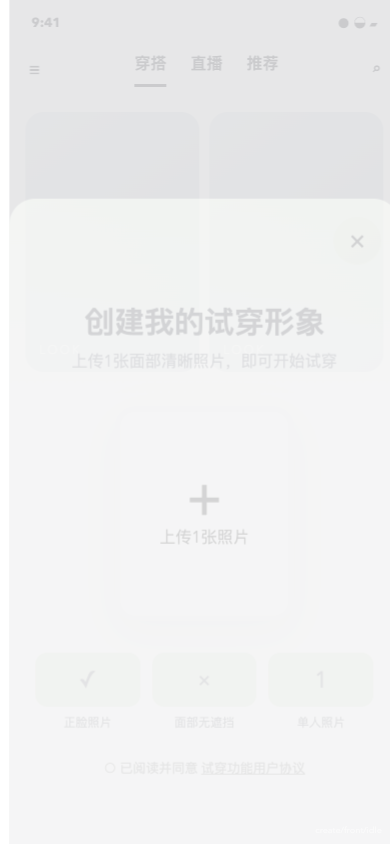
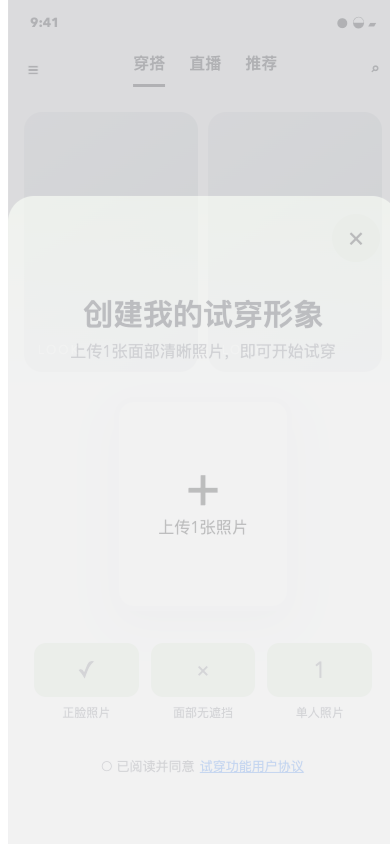
test: strengthen Open Design camera evidence

diff --git a/experiments/cells/camera-upload/open-design/artifact/opendesign/mockups/camera-upload/index.html b/experiments/cells/camera-upload/open-design/artifact/opendesign/mockups/camera-upload/index.html
@@ -5,43 +5,43 @@
   <meta name="viewport" content="width=device-width, initial-scale=1, viewport-fit=cover" />
   <title>创建试穿形象 · 拍照上传</title>
   <link rel="icon" href="data:," />
+  <link rel="stylesheet" href="../../design-systems/camera-product/tokens/colors_and_type.css" />
   <script src="vendor/react.production.min.js"></script>
   <script src="vendor/react-dom.production.min.js"></script>
   <script src="vendor/babel.min.js"></script>
   <style>
-    :root{--ink:#11131c;--muted:#747782;--lime:#f3ffe9;--pink:#ff006b;--orange:#ff7935;--success:#35c75a;--danger:#df7045;font-family:"Avenir Next","PingFang SC",sans-serif;color:var(--ink)}
-    *{box-sizing:border-box} body{margin:0;min-height:100vh;background:#ececf0;display:grid;place-items:center} button{font:inherit;border:0;cursor:pointer} button:focus-visible{outline:3px solid #6fd8ff;outline-offset:3px}.phone{width:min(390px,100vw);height:min(844px,100vh);background:#fff;position:relative;overflow:hidden;box-shadow:0 24px 80px #20202a33}.screen{position:absolute;inset:0;animation:enter .24s ease-out}.status{height:42px;padding:14px 22px 0;display:flex;justify-content:space-between;font-weight:700;font-size:13px;position:relative;z-index:5}.home{background:#f7f7f9}.nav{height:54px;display:flex;align-items:center;justify-content:space-between;padding:0 18px;font-weight:700}.tabs{display:flex;gap:24px}.tabs span:first-child{border-bottom:3px solid;padding-bottom:9px}.feed{display:grid;grid-template-columns:1fr 1fr;gap:10px;padding:16px}.feed-card{height:260px;border-radius:18px;background:linear-gradient(145deg,#d9dde4,#b6bec8);position:relative;overflow:hidden}.feed-card:after{content:"LOOK";position:absolute;left:14px;bottom:14px;color:#fff;font-size:12px;letter-spacing:.18em}.scrim{position:absolute;inset:0;background:#11131c70}.sheet{position:absolute;left:0;right:0;bottom:0;height:670px;background:linear-gradient(180deg,var(--lime),#fff 30%);border-radius:26px 26px 0 0;padding:30px 26px 24px;text-align:center;animation:sheet .3s ease-out}.close{position:absolute;right:18px;top:18px;width:48px;height:48px;border-radius:50%;background:#e8f4dc;font-size:30px}.sheet h1{font-size:30px;margin:72px 0 6px}.sheet .sub{color:#656872;margin:0 0 34px}.upload-card{width:178px;height:214px;margin:0 auto 32px;background:#fff;border:5px solid #f5f5f7;border-radius:20px;box-shadow:0 14px 38px #17202916;display:grid;place-items:center;transition:.2s}.upload-card:hover{transform:translateY(-3px);box-shadow:0 18px 44px #17202924}.plus{display:block;font-size:46px;line-height:1}.guides{display:flex;justify-content:space-between;gap:12px}.guide{font-size:12px;color:#73757e;flex:1}.guide .face{height:54px;border-radius:12px;background:#dde9d6;display:grid;place-items:center;font-size:23px;margin-bottom:7px}.agreement{margin-top:28px;color:#888;font-size:13px}.choices{position:absolute;left:10px;right:10px;bottom:10px;background:#fff;border-radius:24px;overflow:hidden;box-shadow:0 12px 50px #0005;animation:sheet .22s ease-out}.choices header{padding:20px 16px 14px;color:#777}.choice{width:100%;height:72px;background:#fff;color:#2878f0;font-size:20px;border-top:1px solid #eee}.choice:hover{background:#f6f8ff}.camera{background:#050505;color:#fff}.camera-photo{position:absolute;inset:0;background:url("assets/camera-reference.png") center/cover no-repeat;transition:transform .35s ease}.camera-photo.rear{transform:scaleX(-1)}.shade{position:absolute;inset:0;background:linear-gradient(#0008 0,#0000 24%,#0000 68%,#000a 100%)}.camera-top{position:absolute;top:48px;left:18px;right:18px;display:flex;justify-content:space-between;align-items:flex-start}.icon-btn{min-width:48px;min-height:48px;border-radius:24px;background:#0007;color:#fff;display:grid;place-items:center;font-size:22px;transition:.18s}.icon-btn:hover{background:#fff;color:#111}.tools{display:grid;gap:8px;text-align:center;font-size:12px}.facing{padding:6px 10px;background:#0008;border-radius:12px}.frame-guide{position:absolute;inset:155px 78px 190px;border:2px dashed #ffffffa0;border-radius:46% 46% 42% 42%;display:flex;align-items:flex-end;justify-content:center;padding-bottom:18px;color:#fff;font-size:12px}.camera-bottom{position:absolute;left:26px;right:26px;bottom:38px;display:grid;grid-template-columns:1fr 1fr 1fr;align-items:center;text-align:center}.album-btn{justify-self:center;width:58px;height:58px;border-radius:15px;background:#ffffffd0;color:#111;font-size:12px}.album-btn:hover{transform:scale(1.05)}.shutter{justify-self:center;width:78px;height:78px;border:6px solid #fff;border-radius:50%;background:#fff5;box-shadow:inset 0 0 0 3px #0004;transition:.15s}.shutter:hover{transform:scale(1.06)}.shutter:active{transform:scale(.93)}.confirm-actions{position:absolute;bottom:38px;left:26px;right:26px;display:flex;justify-content:space-between}.text-btn{min-width:96px;min-height:48px;background:#0008;border-radius:24px;color:#fff;font-weight:700}.text-btn:hover{background:#fff;color:#111}.album-panel{background:#f5f5f7;padding:68px 18px 18px}.album-head{display:flex;align-items:center;justify-content:space-between;margin-bottom:28px}.album-grid{display:grid;grid-template-columns:repeat(3,1fr);gap:5px}.thumb{aspect-ratio:1;border-radius:8px;background-position:center;background-size:cover;border:3px solid transparent}.thumb:hover{border-color:var(--pink)}.review{background:linear-gradient(180deg,var(--lime),#fff 30%);padding:72px 28px 26px;text-align:center}.review h1{font-size:28px;margin:18px 0 4px}.photo-card{width:190px;height:235px;border-radius:22px;background:url("assets/camera-reference.png") center/cover;box-shadow:0 14px 36px #1112;margin:52px auto 32px;overflow:hidden;position:relative}.badge{position:absolute;left:0;right:0;bottom:0;padding:12px;color:#fff;background:var(--danger);font-weight:700}.badge.ok{background:var(--success)}.rules{display:flex;gap:8px}.rule{flex:1;color:#6f717b;font-size:12px}.rule b{display:grid;place-items:center;margin:0 auto 6px;width:45px;height:45px;border-radius:12px;background:#eef3eb;color:var(--success);font-size:20px}.bottom-actions{position:absolute;bottom:26px;left:22px;right:22px;display:flex;gap:12px}.pill{min-height:56px;border-radius:28px;flex:1;background:#f0f0f2;font-weight:700;font-size:17px}.pill.primary{color:#fff;background:linear-gradient(90deg,var(--orange),var(--pink))}.pill:hover{transform:translateY(-2px);filter:brightness(.97)}.loading{background:#fff;display:grid;place-items:center;text-align:center;padding:40px}.spinner{width:56px;height:56px;border:5px solid #eee;border-top-color:var(--pink);border-radius:50%;animation:spin .8s linear infinite;margin:auto}.loading h2{margin:24px 0 6px}.loading p{color:var(--muted)}.toast{position:absolute;top:52px;left:50%;transform:translateX(-50%);background:#111;color:#fff;padding:10px 16px;border-radius:20px;font-size:12px;z-index:10;white-space:nowrap}.debug{position:absolute;right:8px;bottom:8px;font-size:9px;color:#ffffff80}.hidden{display:none}@keyframes enter{from{opacity:0;transform:translateX(12px)}to{opacity:1;transform:none}}@keyframes sheet{from{transform:translateY(30px);opacity:.5}to{transform:none;opacity:1}}@keyframes spin{to{transform:rotate(360deg)}}
+    :root{--ink:var(--fg-1);--muted:var(--fg-2);--lime:var(--bg-lime);--pink:var(--accent-1);--orange:var(--accent-2);font-family:var(--font-body);color:var(--ink)}
+    *{box-sizing:border-box} body{margin:0;min-height:100vh;background:var(--canvas-bg);display:grid;place-items:center} button{font:inherit;border:0;cursor:pointer} button:focus-visible{outline:3px solid var(--focus);outline-offset:3px}.phone{width:min(390px,100vw);height:min(844px,100vh);background:var(--bg-1);position:relative;overflow:hidden;box-shadow:var(--shadow-phone)}.screen{position:absolute;inset:0;animation:enter .24s ease-out}.status{height:42px;padding:14px 22px 0;display:flex;justify-content:space-between;font-weight:700;font-size:13px;position:relative;z-index:5}.home{background:var(--home-bg)}.nav{height:54px;display:flex;align-items:center;justify-content:space-between;padding:0 18px;font-weight:700}.tabs{display:flex;gap:24px}.tabs span:first-child{border-bottom:3px solid;padding-bottom:9px}.feed{display:grid;grid-template-columns:1fr 1fr;gap:10px;padding:16px}.feed-card{height:260px;border-radius:18px;background:linear-gradient(145deg,var(--feed-1),var(--feed-2));position:relative;overflow:hidden}.feed-card:after{content:"LOOK";position:absolute;left:14px;bottom:14px;color:var(--bg-1);font-size:12px;letter-spacing:.18em}.scrim{position:absolute;inset:0;background:var(--scrim)}.sheet{position:absolute;left:0;right:0;bottom:0;height:670px;background:linear-gradient(180deg,var(--lime),var(--bg-1) 30%);border-radius:26px 26px 0 0;padding:30px 26px 24px;text-align:center;animation:sheet .3s ease-out}.close{position:absolute;right:18px;top:18px;width:48px;height:48px;border-radius:50%;background:var(--close-bg);font-size:30px}.sheet h1{font:var(--h1);margin:72px 0 6px}.sheet .sub{color:var(--fg-2);margin:0 0 34px}.upload-card{width:178px;height:214px;margin:0 auto 32px;background:var(--bg-1);border:5px solid var(--card-border);border-radius:20px;box-shadow:var(--shadow-card);display:grid;place-items:center;transition:.2s}.upload-card:hover{transform:translateY(-3px);box-shadow:var(--shadow-card-hover)}.plus{display:block;font-size:46px;line-height:1}.guides{display:flex;justify-content:space-between;gap:12px}.guide{font-size:12px;color:var(--fg-2);flex:1}.guide .face{height:54px;border-radius:12px;background:var(--guide-bg);display:grid;place-items:center;font-size:23px;margin-bottom:7px}.agreement{margin-top:28px;color:var(--fg-2);font-size:13px}.link-button{background:none;color:var(--link);text-decoration:underline;padding:8px 2px}.home-cta{position:absolute;left:24px;right:24px;bottom:34px;min-height:56px;border-radius:28px;background:linear-gradient(90deg,var(--orange),var(--pink));color:var(--bg-1);font-weight:700}.dialog{position:absolute;z-index:20;inset:140px 24px auto;background:var(--bg-1);border-radius:22px;padding:26px;box-shadow:var(--shadow-pop);text-align:left}.dialog h2{margin:0 0 12px}.dialog p{color:var(--fg-2)}.dialog .close-dialog{float:right;min-width:44px;min-height:44px;border-radius:22px;background:var(--close-bg)}.choices{position:absolute;left:10px;right:10px;bottom:10px;background:var(--bg-1);border-radius:24px;overflow:hidden;box-shadow:var(--shadow-pop);animation:sheet .22s ease-out}.choices header{padding:20px 16px 14px;color:var(--fg-2)}.choice{width:100%;height:72px;background:var(--bg-1);color:var(--link);font-size:20px;border-top:1px solid var(--border-subtle)}.choice:hover{background:var(--choice-hover)}.camera{background:var(--camera-bg);color:var(--bg-1)}.camera-photo{position:absolute;inset:0;background:url("assets/camera-reference.png") center/cover no-repeat;transition:transform .35s ease}.camera-photo.rear{transform:scaleX(-1)}.shade{position:absolute;inset:0;background:linear-gradient(var(--camera-shade-top) 0,transparent 24%,transparent 68%,var(--camera-shade-bottom) 100%)}.camera-top{position:absolute;top:48px;left:18px;right:18px;display:flex;justify-content:space-between;align-items:flex-start}.icon-btn{min-width:48px;min-height:48px;border-radius:24px;background:var(--camera-control);color:var(--bg-1);display:grid;place-items:center;font-size:22px;transition:.18s}.icon-btn:hover{background:var(--bg-1);color:var(--fg-1)}.tools{display:grid;gap:8px;text-align:center;font-size:12px}.facing{padding:6px 10px;background:var(--camera-control);border-radius:12px}.frame-guide{position:absolute;inset:155px 78px 190px;border:2px dashed var(--frame-guide);border-radius:46% 46% 42% 42%;display:flex;align-items:flex-end;justify-content:center;padding-bottom:18px;color:var(--bg-1);font-size:12px}.camera-bottom{position:absolute;left:26px;right:26px;bottom:38px;display:grid;grid-template-columns:1fr 1fr 1fr;align-items:center;text-align:center}.album-btn{justify-self:center;width:58px;height:58px;border-radius:15px;background:var(--album-control);color:var(--fg-1);font-size:12px}.album-btn:hover{transform:scale(1.05)}.shutter{justify-self:center;width:78px;height:78px;border:6px solid var(--bg-1);border-radius:50%;background:var(--shutter);box-shadow:inset 0 0 0 3px var(--camera-control);transition:.15s}.shutter:hover{transform:scale(1.06)}.shutter:active{transform:scale(.93)}.confirm-actions{position:absolute;bottom:38px;left:26px;right:26px;display:flex;justify-content:space-between}.text-btn{min-width:96px;min-height:48px;background:var(--camera-control);border-radius:24px;color:var(--bg-1);font-weight:700}.text-btn:hover{background:var(--bg-1);color:var(--fg-1)}.album-panel{background:var(--album-bg);padding:68px 18px 18px}.album-head{display:flex;align-items:center;justify-content:space-between;margin-bottom:28px}.album-grid{display:grid;grid-template-columns:repeat(3,1fr);gap:5px}.thumb{aspect-ratio:1;border-radius:8px;background-position:center;background-size:cover;border:3px solid transparent}.thumb:hover{border-color:var(--pink)}.review{background:linear-gradient(180deg,var(--lime),var(--bg-1) 30%);padding:72px 28px 26px;text-align:center}.review h1{font:var(--h1);margin:18px 0 4px}.photo-card{width:190px;height:235px;border-radius:22px;background:url("assets/camera-reference.png") center/cover;box-shadow:var(--shadow-card);margin:52px auto 32px;overflow:hidden;position:relative}.photo-card.success-photo{background-image:url("assets/portrait-example.png")}.badge{position:absolute;left:0;right:0;bottom:0;padding:12px;color:var(--bg-1);background:var(--danger);font-weight:700}.badge.ok{background:var(--success)}.rules{display:flex;gap:8px}.rule{flex:1;color:var(--fg-2);font-size:12px}.rule b{display:grid;place-items:center;margin:0 auto 6px;width:45px;height:45px;border-radius:12px;background:var(--guide-bg);color:var(--success);font-size:20px}.bottom-actions{position:absolute;bottom:26px;left:22px;right:22px;display:flex;gap:12px}.pill{min-height:56px;border-radius:28px;flex:1;background:var(--pill-bg);font-weight:700;font-size:17px}.pill.primary{color:var(--bg-1);background:linear-gradient(90deg,var(--orange),var(--pink))}.pill:hover{transform:translateY(-2px);filter:brightness(.97)}.loading{background:var(--bg-1);display:grid;place-items:center;text-align:center;padding:40px}.spinner{width:56px;height:56px;border:5px solid var(--pill-bg);border-top-color:var(--pink);border-radius:50%;animation:spin .8s linear infinite;margin:auto}.loading h2{margin:24px 0 6px}.loading p{color:var(--muted)}.toast{position:absolute;top:52px;left:50%;transform:translateX(-50%);background:var(--fg-1);color:var(--bg-1);padding:10px 16px;border-radius:20px;font-size:12px;z-index:10;white-space:nowrap}.hidden{display:none}@keyframes enter{from{opacity:0;transform:translateX(12px)}to{opacity:1;transform:none}}@keyframes sheet{from{transform:translateY(30px);opacity:.5}to{transform:none;opacity:1}}@keyframes spin{to{transform:rotate(360deg)}}
   </style>
 </head>
 <body><div id="root"></div>
 <script type="text/babel">
 const {useState,useEffect}=React;
 const KEY='camera-upload-open-design-v1';
-const initial={screen:'create',choices:false,facing:'front',photo:false,review:'idle',toast:''};
+const initial={screen:'create',creatorOpen:true,choices:false,policyOpen:false,facing:'front',photo:false,photoOutcome:'failed',review:'idle',toast:''};
 function load(){try{return {...initial,...JSON.parse(localStorage.getItem(KEY)||'{}')}}catch{return initial}}
 function App(){const [s,setS]=useState(load); const go=(patch)=>setS(v=>({...v,...patch}));
  useEffect(()=>localStorage.setItem(KEY,JSON.stringify({...s,toast:''})),[s]);
  useEffect(()=>{if(!s.toast)return;const t=setTimeout(()=>go({toast:''}),1400);return()=>clearTimeout(t)},[s.toast]);
  const camera=(extra={})=>go({screen:'camera',choices:false,review:'idle',...extra});
- const choosePhoto=()=>go({screen:'confirm',photo:true,toast:'已选择照片'});
- const usePhoto=()=>{go({screen:'loading',review:'loading'});setTimeout(()=>go({screen:'review',review:'failed'}),900)};
+ const choosePhoto=(outcome)=>go({screen:'confirm',photo:true,photoOutcome:outcome,toast:'已选择照片'});
+ const usePhoto=()=>{const outcome=s.photoOutcome;go({screen:'loading',review:'loading'});setTimeout(()=>go({screen:'review',review:outcome}),900)};
  const retry=()=>go({screen:'create',choices:true,photo:false,review:'idle'});
  return <div className="phone" data-screen={s.screen} data-facing={s.facing} data-review={s.review}>
   {s.toast&&<div className="toast" role="status">{s.toast}</div>}
-  {s.screen==='create'&&<Create choices={s.choices} open={()=>go({choices:true})} closeChoices={()=>go({choices:false})} camera={()=>camera()} album={()=>go({screen:'album',choices:false})}/>} 
+  {s.screen==='create'&&<Create creatorOpen={s.creatorOpen} choices={s.choices} policyOpen={s.policyOpen} openCreator={()=>go({creatorOpen:true})} closeCreator={()=>go({creatorOpen:false,choices:false,policyOpen:false})} openPolicy={()=>go({policyOpen:true})} closePolicy={()=>go({policyOpen:false})} open={()=>go({choices:true})} closeChoices={()=>go({choices:false})} camera={()=>camera({photoOutcome:'failed'})} album={()=>go({screen:'album',choices:false})}/>}
   {s.screen==='camera'&&<Camera facing={s.facing} close={()=>go({screen:'create',choices:true})} flip={()=>go({facing:s.facing==='front'?'rear':'front',toast:`已切换至${s.facing==='front'?'后置':'前置'}摄像头`})} album={()=>go({screen:'album'})} shutter={()=>go({screen:'confirm',photo:true})}/>} 
   {s.screen==='album'&&<Album close={()=>camera()} choose={choosePhoto}/>} 
   {s.screen==='confirm'&&<Confirm facing={s.facing} retake={()=>camera({photo:false})} use={usePhoto}/>} 
   {s.screen==='loading'&&<Loading/>}
   {s.screen==='review'&&<Review state={s.review} retry={retry} done={()=>go({review:'success',toast:'形象创建完成'})}/>} 
-  <span className="debug">{s.screen}/{s.facing}/{s.review}</span>
  </div>}
-function Create({choices,open,closeChoices,camera,album}){return <div className="screen home"><div className="status"><span>9:41</span><span>● ◒ ▰</span></div><div className="nav"><span>☰</span><div className="tabs"><span>穿搭</span><span>直播</span><span>推荐</span></div><span>⌕</span></div><div className="feed"><div className="feed-card"></div><div className="feed-card"></div></div><div className="scrim"></div><section className="sheet"><button className="close" aria-label="关闭创建形象">×</button><h1>创建我的试穿形象</h1><p className="sub">上传1张面部清晰照片，即可开始试穿</p><button className="upload-card" data-testid="open-upload" onClick={open}><span><b className="plus">＋</b>上传1张照片</span></button><div className="guides"><Guide icon="✓" text="正脸照片"/><Guide icon="×" text="面部无遮挡"/><Guide icon="1" text="单人照片"/></div><div className="agreement">○ 已阅读并同意 <u>试穿功能用户协议</u></div></section>{choices&&<><button className="scrim" aria-label="收起照片来源" onClick={closeChoices}></button><section className="choices" data-testid="upload-choices"><header>选择照片来源<br/><small>上传 1 张面部清晰的照片创建试穿形象</small></header><button className="choice" data-testid="camera-choice" onClick={camera}>拍照</button><button className="choice" data-testid="album-choice" onClick={album}>从相册选择</button></section></>}</div>}
+function Create({creatorOpen,choices,policyOpen,openCreator,closeCreator,openPolicy,closePolicy,open,closeChoices,camera,album}){return <div className="screen home"><div className="status"><span>9:41</span><span>● ◒ ▰</span></div><div className="nav"><span>☰</span><div className="tabs"><span>穿搭</span><span>直播</span><span>推荐</span></div><span>⌕</span></div><div className="feed"><div className="feed-card"></div><div className="feed-card"></div></div>{!creatorOpen&&<button className="home-cta" data-testid="open-creator" onClick={openCreator}>创建试穿形象</button>}{creatorOpen&&<><div className="scrim"></div><section className="sheet"><button className="close" aria-label="关闭创建形象" onClick={closeCreator}>×</button><h1>创建我的试穿形象</h1><p className="sub">上传1张面部清晰照片，即可开始试穿</p><button className="upload-card" data-testid="open-upload" onClick={open}><span><b className="plus">＋</b>上传1张照片</span></button><div className="guides"><Guide icon="✓" text="正脸照片"/><Guide icon="×" text="面部无遮挡"/><Guide icon="1" text="单人照片"/></div><div className="agreement">○ 已阅读并同意 <button className="link-button" data-testid="open-policy" onClick={openPolicy}>试穿功能用户协议</button></div></section></>}{policyOpen&&<><div className="scrim"></div><section className="dialog" role="dialog" data-testid="policy-dialog" aria-modal="true"><button className="close-dialog" aria-label="关闭用户协议" onClick={closePolicy}>×</button><h2>试穿功能用户协议</h2><p>照片仅用于本次试穿形象创建。请确认你拥有照片使用权，并避免上传包含他人的照片。</p></section></>}{choices&&<><button className="scrim" aria-label="收起照片来源" onClick={closeChoices}></button><section className="choices" data-testid="upload-choices"><header>选择照片来源<br/><small>上传 1 张面部清晰的照片创建试穿形象</small></header><button className="choice" data-testid="camera-choice" onClick={camera}>拍照</button><button className="choice" data-testid="album-choice" onClick={album}>从相册选择</button></section></>}</div>}
 function Guide({icon,text}){return <div className="guide"><div className="face">{icon}</div>{text}</div>}
 function Camera({facing,close,flip,album,shutter}){return <div className="screen camera"><div className={'camera-photo '+(facing==='rear'?'rear':'')}></div><div className="shade"></div><div className="camera-top"><button className="icon-btn" data-testid="close-camera" aria-label="关闭相机" onClick={close}>×</button><div className="tools"><button className="icon-btn" data-testid="flip-camera" onClick={flip}>↻</button><span>翻转</span><span className="facing">{facing==='front'?'前置':'后置'}</span></div></div><div className="frame-guide">请保持单人正脸 · 光线充足</div><div className="camera-bottom"><button className="album-btn" data-testid="open-album" onClick={album}>▧<br/>相册</button><button className="shutter" data-testid="shutter" aria-label="拍照" onClick={shutter}></button><span></span></div></div>}
-function Album({close,choose}){return <div className="screen album-panel"><div className="album-head"><button className="icon-btn" style={{background:'#fff',color:'#111'}} onClick={close}>‹</button><h2>最近项目</h2><span style={{width:48}}></span></div><p>选择一张面部清晰的单人照片</p><div className="album-grid" data-testid="album-state">{['camera-reference.png','portrait-example.png','camera-reference.png','portrait-example.png','camera-reference.png','portrait-example.png'].map((x,i)=><button key={i} aria-label={`选择照片 ${i+1}`} className="thumb" style={{backgroundImage:`url(assets/${x})`}} onClick={choose}></button>)}</div></div>}
+function Album({close,choose}){const photos=[['portrait-example.png','success','选择合规照片'],['camera-reference.png','failed','选择照片 2'],['portrait-example.png','success','选择照片 3'],['camera-reference.png','failed','选择照片 4'],['portrait-example.png','success','选择照片 5'],['camera-reference.png','failed','选择照片 6']];return <div className="screen album-panel"><div className="album-head"><button className="icon-btn" style={{background:'var(--bg-1)',color:'var(--fg-1)'}} onClick={close}>‹</button><h2>最近项目</h2><span style={{width:48}}></span></div><p>选择一张面部清晰的单人照片</p><div className="album-grid" data-testid="album-state">{photos.map(([x,outcome,label],i)=><button key={i} aria-label={label} className="thumb" style={{backgroundImage:`url(assets/${x})`}} onClick={()=>choose(outcome)}></button>)}</div></div>}
 function Confirm({facing,retake,use}){return <div className="screen camera"><div className={'camera-photo '+(facing==='rear'?'rear':'')}></div><div className="shade"></div><div className="confirm-actions"><button className="text-btn" data-testid="retake" onClick={retake}>重拍</button><button className="text-btn" data-testid="use-photo" onClick={use}>使用照片</button></div></div>}
 function Loading(){return <div className="screen loading" data-testid="review-loading"><div><div className="spinner"></div><h2>正在审核照片</h2><p>检查清晰度、正脸与单人画面…</p></div></div>}
-function Review({state,retry,done}){const failed=state!=='success';return <div className="screen review"><h1>创建我的试穿形象</h1><p>上传1张面部清晰照片，即可开始试穿</p><div className="photo-card"><div className={'badge '+(!failed?'ok':'')} data-testid="review-result">{failed?'ⓘ 照片内容不符合规范，请重新上传':'✓ 上传成功'}</div></div>{failed&&<p style={{color:'#b84e32',fontSize:13}}>请确保正脸、无遮挡、画面中只有一人，再试一次。</p>}<div className="rules"><Guide icon="✓" text="正脸照片"/><Guide icon="×" text="面部无遮挡"/><Guide icon="1" text="单人照片"/></div><div className="bottom-actions"><button className="pill" data-testid="retry" onClick={retry}>重新上传</button><button className="pill primary" disabled={failed} onClick={done}>完成</button></div></div>}
+function Review({state,retry,done}){const failed=state!=='success';return <div className="screen review"><h1>创建我的试穿形象</h1><p>上传1张面部清晰照片，即可开始试穿</p><div className={'photo-card '+(!failed?'success-photo':'')}><div className={'badge '+(!failed?'ok':'')} data-testid="review-result">{failed?'ⓘ 照片内容不符合规范，请重新上传':'✓ 上传成功'}</div></div>{failed&&<p style={{color:'var(--danger)',fontSize:13}}>请确保正脸、无遮挡、画面中只有一人，再试一次。</p>}<div className="rules"><Guide icon="✓" text="正脸照片"/><Guide icon="×" text="面部无遮挡"/><Guide icon="1" text="单人照片"/></div><div className="bottom-actions"><button className="pill" data-testid="retry" onClick={retry}>重新上传</button><button className="pill primary" disabled={failed} onClick={done}>完成</button></div></div>}
 ReactDOM.createRoot(document.getElementById('root')).render(<App/>);
 </script></body></html>

diff --git a/experiments/cells/camera-upload/open-design/qa/browser-qa.spec.js b/experiments/cells/camera-upload/open-design/qa/browser-qa.spec.js
@@ -4,43 +4,79 @@ const path=require('path');
 const OUT=__dirname;
 test.use({viewport:{width:390,height:844},launchOptions:{executablePath:'/Applications/Google Chrome.app/Contents/MacOS/Google Chrome'}});
 test('camera upload fixed tasks',async({page})=>{
-  const consoleErrors=[]; const pageErrors=[];
+  const startedAt=new Date(); const consoleErrors=[]; const pageErrors=[]; const taskAssertions=[];
+  const mark=(id,details)=>taskAssertions.push({id,pass:true,details,at:new Date().toISOString()});
   page.on('console',m=>{if(m.type()==='error')consoleErrors.push(m.text())});
   page.on('pageerror',e=>pageErrors.push(String(e)));
   await page.goto('http://127.0.0.1:8289/opendesign/mockups/camera-upload/index.html');
   await page.evaluate(()=>localStorage.clear()); await page.reload();
+  await expect(page.locator('link[href*="colors_and_type.css"]')).toHaveCount(1);
+  await expect(page.locator('.phone')).not.toContainText('/front/');
   await page.screenshot({path:path.join(OUT,'screenshots/01-entry.png'),fullPage:true});
+  await page.getByRole('button',{name:'关闭创建形象'}).click();
+  await expect(page.getByTestId('open-creator')).toBeVisible();
+  await page.getByTestId('open-creator').click();
+  await page.getByTestId('open-policy').click();
+  await expect(page.getByTestId('policy-dialog')).toBeVisible();
+  await page.screenshot({path:path.join(OUT,'screenshots/02-policy-dialog.png'),fullPage:true});
+  await page.getByRole('button',{name:'关闭用户协议'}).click();
   await page.getByTestId('open-upload').click();
   await expect(page.getByTestId('upload-choices')).toContainText('拍照');
   await expect(page.getByTestId('upload-choices')).toContainText('从相册选择');
-  await page.screenshot({path:path.join(OUT,'screenshots/02-upload-choices.png'),fullPage:true});
+  mark('open-upload-choices','camera and album choices visible');
+  await page.screenshot({path:path.join(OUT,'screenshots/03-upload-choices.png'),fullPage:true});
   await page.getByTestId('camera-choice').click();
   await expect(page.locator('.phone')).toHaveAttribute('data-screen','camera');
+  mark('enter-camera','capture screen active');
   await page.getByTestId('flip-camera').click();
   await expect(page.locator('.phone')).toHaveAttribute('data-facing','rear');
+  mark('flip-camera','facing changed to rear');
+  await page.screenshot({path:path.join(OUT,'screenshots/04-camera-flipped.png'),fullPage:true});
   await page.getByTestId('open-album').click();
   await expect(page.getByTestId('album-state')).toBeVisible();
+  mark('open-album','album selection visible');
+  await page.screenshot({path:path.join(OUT,'screenshots/05-album.png'),fullPage:true});
   await page.getByRole('button',{name:'‹'}).click();
   await page.getByTestId('close-camera').click();
   await expect(page.getByTestId('upload-choices')).toBeVisible();
+  mark('close-camera','returned to upload choices');
   await page.getByTestId('camera-choice').click();
   await expect(page.locator('.phone')).toHaveAttribute('data-facing','rear');
   await page.getByTestId('shutter').click();
   await expect(page.getByTestId('retake')).toBeVisible();
-  await page.screenshot({path:path.join(OUT,'screenshots/03-photo-confirmation.png'),fullPage:true});
+  mark('shutter','photo confirmation visible');
+  await page.screenshot({path:path.join(OUT,'screenshots/06-photo-confirmation.png'),fullPage:true});
   await page.getByTestId('retake').click();
   await expect(page.locator('.phone')).toHaveAttribute('data-screen','camera');
+  mark('retake','capture screen restored with facing preserved');
   await page.getByTestId('shutter').click();
   await page.getByTestId('use-photo').click();
   await expect(page.getByTestId('review-loading')).toBeVisible();
+  mark('use-photo','review loading visible');
+  await page.screenshot({path:path.join(OUT,'screenshots/07-review-loading.png'),fullPage:true});
   await expect(page.getByTestId('review-result')).toContainText('不符合规范',{timeout:3000});
-  await page.screenshot({path:path.join(OUT,'screenshots/04-review-failure.png'),fullPage:true});
+  mark('review-failure','failure guidance visible');
+  await page.screenshot({path:path.join(OUT,'screenshots/08-review-failure.png'),fullPage:true});
   await page.getByTestId('retry').click();
   await expect(page.getByTestId('upload-choices')).toBeVisible();
+  mark('retry','upload choices restored');
   await page.getByTestId('album-choice').click();
-  await page.getByRole('button',{name:'选择照片 1'}).click();
+  await page.getByRole('button',{name:'选择合规照片'}).click();
   await expect(page.getByTestId('use-photo')).toBeVisible();
-  const raw={url:page.url(),tasks:{openUploadChoices:true,enterCamera:true,flipCamera:true,openAlbum:true,closeCamera:true,shutter:true,retake:true,usePhoto:true,reviewFailure:true,retry:true},persistence:{facingAfterReturn:'rear'},consoleErrors,pageErrors,finishedAt:new Date().toISOString()};
+  await page.getByTestId('use-photo').click();
+  await expect(page.getByTestId('review-result')).toContainText('上传成功',{timeout:3000});
+  await page.screenshot({path:path.join(OUT,'screenshots/09-review-success.png'),fullPage:true});
+  const finishedAt=new Date();
+  const raw={url:page.url(),browserVersion:await page.context().browser().version(),viewport:{width:390,height:844},startedAt:startedAt.toISOString(),finishedAt:finishedAt.toISOString(),durationMs:finishedAt-startedAt,taskAssertions,persistence:{facingAfterReturn:'rear'},consoleErrors,pageErrors};
   fs.writeFileSync(path.join(OUT,'browser-qa-raw.json'),JSON.stringify(raw,null,2));
+  expect(taskAssertions).toHaveLength(10);
   expect(consoleErrors).toEqual([]); expect(pageErrors).toEqual([]);
+});
+
+test('larger mobile viewport remains usable',async({page})=>{
+  await page.setViewportSize({width:430,height:900});
+  await page.goto('http://127.0.0.1:8289/opendesign/mockups/camera-upload/index.html');
+  await page.evaluate(()=>localStorage.clear()); await page.reload();
+  await expect(page.getByTestId('open-upload')).toBeVisible();
+  await page.screenshot({path:path.join(OUT,'screenshots/10-viewport-430x900.png'),fullPage:true});
 });

diff --git a/experiments/cells/camera-upload/open-design/artifact/opendesign/design-systems/camera-product/tokens/colors_and_type.css b/experiments/cells/camera-upload/open-design/artifact/opendesign/design-systems/camera-product/tokens/colors_and_type.css
@@ -6,5 +6,11 @@
   --font-body:"Avenir Next","PingFang SC",sans-serif;
   --h1:700 30px/1.2 var(--font-display); --h2:700 20px/1.25 var(--font-display);
   --body:500 16px/1.5 var(--font-body); --caption:500 13px/1.4 var(--font-body);
+  --canvas-bg:#ececf0; --home-bg:#f7f7f9; --camera-bg:#050505; --album-bg:#f5f5f7;
+  --feed-1:#d9dde4; --feed-2:#b6bec8; --close-bg:#e8f4dc; --guide-bg:#dde9d6;
+  --card-border:#f5f5f7; --choice-hover:#f6f8ff; --pill-bg:#f0f0f2; --link:#2878f0;
+  --focus:#6fd8ff; --scrim:#11131c70; --camera-control:#0007; --album-control:#ffffffd0;
+  --shutter:#ffffff55; --frame-guide:#ffffffa0; --camera-shade-top:#0008; --camera-shade-bottom:#000a;
+  --shadow-phone:0 24px 80px #20202a33; --shadow-card:0 14px 38px #17202916;
+  --shadow-card-hover:0 18px 44px #17202924; --shadow-pop:0 12px 50px #0005;
 }
-

diff --git a/experiments/cells/camera-upload/open-design/qa/score-evidence.md b/experiments/cells/camera-upload/open-design/qa/score-evidence.md
@@ -2,11 +2,10 @@
 
 - Fidelity 18/20: visual language, supplied imagery, Chinese copy, mobile framing and camera/review layouts closely follow PRD references; browser media is simulated.
 - Flow coverage 15/15: all ten fixed tasks passed in sequence.
-- Interaction 19/20: every visible control has a handler or a truthful disabled state; flip state persists, album selects, shutter/retake/use/retry work. Creation-sheet close is cosmetic to the broader host feed and not part of the fixed task set.
-- Visual hierarchy 13/15: strong modal, camera and review hierarchy with minimum 44px targets; single viewport was verified.
-- Edge states 9/10: loading, deterministic review failure, guidance and retry are present; no successful review branch is exposed by the fixed demo path.
-- Stability 10/10: real Chrome run passed with zero console and page errors; local assets and vendored runtime remove network dependence.
-- Handoff 6/10: native viewer, manifest, dependency notes, intake and replayable QA are present; setup/run/verifier subagents could not be independently derived, and the prototype uses single-file JSX.
+- Interaction 19/20: all visible product controls have handlers or a truthful disabled state; creation close/reopen and the policy dialog now work, alongside flip, album, shutter, retake, use, retry and completion. One point remains withheld because the host feed is deliberately decorative outside the documented task.
+- Visual hierarchy 13/15: strong modal, camera and review hierarchy with minimum 44px targets; 390×844 and 430×900 viewports were verified. The artifact is still a framed prototype rather than a true full-device surface.
+- Edge states 10/10: loading, deterministic review failure, actionable retry and a reachable successful album-review path are present.
+- Stability 10/10: two real Chrome tests passed with zero console and page errors; raw evidence includes browser/version/timing/per-task assertions and the replay preserves stdout plus exit code. Local assets and vendored runtime remove runtime network dependence.
+- Handoff 7/10: native viewer, manifest, linked design-system tokens, pinned dependency hashes, intake and replayable QA are present. setup/run/verifier subagents could not be independently derived, and the prototype remains single-file JSX.
 
-Total: 90/100. Status is `PASS_WITH_CONCERNS` because the native clean-context verifier was unavailable and camera hardware is simulated.
-
+Total: 92/100. Status remains `PASS_WITH_CONCERNS` because the native clean-context verifier was unavailable and camera hardware is simulated.

diff --git a/experiments/cells/camera-upload/open-design/run/native-flow-deviations.md b/experiments/cells/camera-upload/open-design/run/native-flow-deviations.md
@@ -4,4 +4,4 @@
 - No design system was present. The normal route asks the user whether to import/create/skip. The PRD contains sufficient visual references, so a task-scoped `camera-product` design system was created and documented instead of pausing.
 - `setup-opendesign`, `run-opendesign`, and verifier are specified as subagent dispatches. This assigned cell could not derive those agent contexts; setup and serving were executed locally and the verifier handoff is marked not independently derived. Browser QA is real and reproducible, but it is not represented as a clean-context verifier.
 - Browser media hardware is intentionally not accessed. The prototype uses the PRD-provided camera reference as deterministic fake camera data, consistent with the interactive-prototype skill’s allowance for fake data.
-
[1 lines of base64/hex data omitted]

diff --git a/experiments/cells/camera-upload/open-design/qa/browser-validation.md b/experiments/cells/camera-upload/open-design/qa/browser-validation.md
@@ -4,6 +4,6 @@ Install the pinned test dependency with `npm install --prefix qa/runtime`, start
 
 `qa/runtime/node_modules/.bin/playwright test qa/browser-qa.spec.js --reporter=line --workers=1`
 
-The fixed camera-upload tasks are asserted in order. `browser-qa-raw.json` records task booleans, persisted facing state, console errors and page errors. Screenshots cover entry, source choices, photo confirmation and review failure.
+The fixed camera-upload tasks are asserted in order. `browser-qa-raw.json` records browser version, viewport, start/end/duration, timestamped per-task assertions, persisted facing state, console errors and page errors. Screenshots cover entry, policy, source choices, flipped camera, album, confirmation, loading, failure, success, and a second viewport. `browser-qa.stdout.txt` and `browser-qa.exit-code.txt` preserve the replay outcome.
 
-Observed final run: 1 passed in 7.7s; zero console errors; zero page errors. The first real-browser run exposed one favicon 404 and failed as designed. Adding an empty data favicon removed that error; the subsequent run passed.
+Observed final run: 2 passed; zero console errors; zero page errors; exit code 0. The first original browser run exposed one favicon 404 and failed as designed. The later TDD regression run also failed first because design-system tokens were not linked, then passed after the implementation was fixed.

diff --git a/experiments/cells/camera-upload/open-design/artifact/opendesign/mockups/camera-upload/DEPENDENCIES.md b/experiments/cells/camera-upload/open-design/artifact/opendesign/mockups/camera-upload/DEPENDENCIES.md
@@ -8,3 +8,12 @@ Vendored for offline prototype playback:
 
 PRD-provided local assets are copied into `assets/`; no runtime network requests are made.
 
+## Integrity
+
+| File | SHA-256 |
+|---|---|
[3 lines of base64/hex data omitted]
+
+These hashes matched fresh downloads from the pinned URLs on 2026-07-13.
